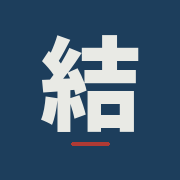
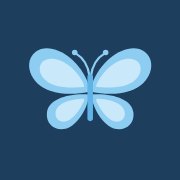
Rebrand to YUNABI with a light-blue butterfly; map opens near me; grey art placeholders
- New butterfly mark (assets/brand/yunabi-mark.svg) in the header and the
  app icons; name YUNABI in the title, header and manifest
- Entering the map from another screen always starts at near me (D14);
  a reload also starts there
- Panels, scenes and ending cards without artwork are plain grey boxes;
  the English scene notes stay in the data but are no longer shown (D15)
- CACHE yui-v6

Storage keys stay yui.v1.* so existing collections survive the rename.

Claude-Session: https://claude.ai/code/session_01QtqqbbrspAGQLbnxA1Q8rE

Changed region(s): [[0.1389, 0.1944, 0.8611, 0.75], [0.3889, 0.7778, 0.6111, 0.8333]]

diff --git a/index.html b/index.html
@@ -3,7 +3,7 @@
 <head>
 <meta charset="utf-8">
 <meta name="viewport" content="width=device-width, initial-scale=1, viewport-fit=cover">
-<title>YUI</title>
+<title>YUNABI</title>
 <meta name="description" content="Everyday Japanese comics and a conversation game, a map of everyday places, and the dorm calendar — for residents of GLOBAL COMMONS 結 -YUI-.">
 <link rel="manifest" href="./manifest.webmanifest">
 <meta name="theme-color" content="#1D3E5C">
@@ -11,7 +11,7 @@
 <meta name="mobile-web-app-capable" content="yes">
 <meta name="apple-mobile-web-app-capable" content="yes">
 <meta name="apple-mobile-web-app-status-bar-style" content="black-translucent">
-<meta name="apple-mobile-web-app-title" content="YUI">
+<meta name="apple-mobile-web-app-title" content="YUNABI">
 <link rel="apple-touch-icon" href="./icon-180.png">
 <link rel="icon" href="./icon-192.png">
 <style>
@@ -75,6 +75,7 @@ header{
   padding:calc(14px + env(safe-area-inset-top)) 18px 0;
 }
 .crest{display:flex;align-items:flex-end;gap:11px}
+.knot svg{display:block;width:46px;height:37px}
 .knot{
   font-size:30px;line-height:.9;font-weight:600;
   letter-spacing:-.02em;
@@ -221,7 +222,7 @@ main{flex:1;position:relative}
 .card p{font-size:11.5px;color:var(--sumi-faint);margin:6px 2px 0;line-height:1.5}
 .card.lock b{color:var(--line);text-align:center}
 .card.lock .cgart{background:var(--washi-deep);border-style:solid}
-.cgart{aspect-ratio:4/3;border:1px dashed var(--line);border-radius:7px;background:var(--washi);
+.cgart{aspect-ratio:4/3;border-radius:7px;background:#D5D7D2;
   display:flex;flex-direction:column;align-items:center;justify-content:center;
   gap:5px;padding:11px;text-align:center;overflow:hidden}
 .cgart img{width:100%;height:100%;object-fit:cover;border-radius:7px}
@@ -271,7 +272,7 @@ main{flex:1;position:relative}
 .cuts{padding:16px 18px 4px}
 .cut{margin:0 0 18px}
 .cut img{width:100%;display:block;border-radius:10px;border:1px solid var(--line)}
-.cutph{aspect-ratio:4/3;border:1px dashed var(--line);border-radius:10px;background:var(--card);
+.cutph{aspect-ratio:4/3;border-radius:10px;background:#D5D7D2;
   display:flex;flex-direction:column;align-items:center;justify-content:center;gap:7px;padding:18px;text-align:center}
 .cutph span{font-size:11px;font-weight:700;color:var(--asagi)}
 .cutph p{font-size:12.5px;color:var(--sumi-faint);line-height:1.5}
@@ -364,7 +365,21 @@ html[lang="ko"] body{word-break:keep-all;overflow-wrap:anywhere}
 <div id="app">
   <header>
     <div class="crest">
-      <div class="knot">結</div>
+      <div class="knot"><svg viewBox="52 84 408 330" aria-hidden="true">
+  <defs>
+    <g id="yn-half">
+      <path d="M262 236C292 150 384 96 432 132C474 164 452 236 386 258C340 273 296 268 262 262Z" fill="#8ECDF2"/>
+      <path d="M276 238C304 176 368 140 404 160C432 177 420 222 376 238C344 249 306 248 276 246Z" fill="#C9E9FB"/>
+      <path d="M262 270C330 266 392 286 396 330C400 376 352 398 314 370C288 351 270 318 262 286Z" fill="#8ECDF2"/>
+      <path d="M276 284C322 284 366 300 368 330C370 356 342 366 320 350C300 336 286 312 276 292Z" fill="#C9E9FB"/>
+      <path d="M258 212C262 178 280 150 304 136" fill="none" stroke="#8ECDF2" stroke-width="7" stroke-linecap="round"/>
+      <circle cx="306" cy="134" r="9" fill="#8ECDF2"/>
+    </g>
+  </defs>
+  <use href="#yn-half"/>
+  <use href="#yn-half" transform="translate(512 0) scale(-1 1)"/>
+  <rect x="247" y="204" width="18" height="152" rx="9" fill="#5FB3E6"/>
+</svg></div>
       <div class="crest-text">
         <b id="ttl">YUI</b>
         <span id="sub">GLOBAL COMMONS 結 -YUI-</span>
@@ -379,10 +394,9 @@ html[lang="ko"] body{word-break:keep-all;overflow-wrap:anywhere}
 
 <script>
 /* ============ i18n ============ */
-/* appName is a placeholder until the name is decided — change it here only. */
 const T = {
  ja:{
-   appName:"YUI",
+   appName:"YUNABI",
    appSub:"生活の日本語・マップ・カレンダー",
    tabs:["ホーム","日本語","マップ","カレンダー"],
    tabIcon:["⌂","あ","◉","▦"],
@@ -459,7 +473,7 @@ const T = {
    wdShort:["日","月","火","水","木","金","土"],
    back:"戻る"},
  en:{
-   appName:"YUI",
+   appName:"YUNABI",
    appSub:"Everyday Japanese · Map · Calendar",
    tabs:["Home","Japanese","Map","Calendar"],
    tabIcon:["⌂","あ","◉","▦"],
@@ -536,7 +550,7 @@ const T = {
    wdShort:["S","M","T","W","T","F","S"],
    back:"Back"},
  ko:{
-   appName:"YUI",
+   appName:"YUNABI",
    appSub:"생활 일본어 · 지도 · 캘린더",
    tabs:["홈","일본어","지도","캘린더"],
    tabIcon:["⌂","あ","◉","▦"],
@@ -1479,7 +1493,7 @@ function collection(){
     <div class="cgrid">${ENDINGS.map(e=>{
       if(!S.cg[e.id])return `<div class="card lock"><div class="cgart"></div><b>${t.locked}</b></div>`;
       return `<div class="card"><div class="cgart">${e.img?`<img src="${esc(e.img)}" alt="">`
-        :`<p>${esc(e.s)}</p><small>${t.artTodo}</small>`}</div>
+        :""}</div>
         <b>${esc(e.t[S.lang])}</b><q>${esc(e.jp)}</q>
         <p>${esc(e.n[S.lang])}</p></div>`;}).join("")}</div>`;
 }
@@ -1490,8 +1504,7 @@ function lesson(){
   if(l.vn)return vnView();
   const cuts=l.cuts.map((c,i)=>`<figure class="cut">
       ${c.img?`<img src="${esc(c.img)}" alt="">`
-            :`<div class="cutph"><span>${i+1}</span><p>${esc(c.s)}</p>
-               <small>${t.artTodo}</small></div>`}
+            :`<div class="cutph"><span>${i+1}</span></div>`}
       <figcaption>${esc(c.jp)}</figcaption>
     </figure>`).join("");
   const ex=l.ex.map(e=>`<div class="expr">
@@ -1521,7 +1534,7 @@ function vnView(){
     const card=ENDINGS.find(e=>e.route===v.route&&e.best===best);
     return bar+`<div class="vnend">
         <div class="cgart big">${card.img?`<img src="${esc(card.img)}" alt="">`
-          :`<p>${esc(card.s)}</p><small>${t.artTodo}</small>`}</div>
+          :""}</div>
         <h1>${esc(card.t[S.lang])}</h1>
         <q>${esc(card.jp)}</q>
         <p class="endnote">${esc(card.n[S.lang])}</p>
@@ -1544,7 +1557,7 @@ function vnView(){
   return bar+`<div class="vnwrap">
       <div class="vndots">${dots}</div>
       <div class="cgart">${sc.img?`<img src="${esc(sc.img)}" alt="">`
-        :`<p>${esc(sc.s)}</p><small>${t.artTodo}</small>`}</div>
+        :""}</div>
       <div class="vnline"><b>${esc(R.name[S.lang])}</b><p>${esc(sc.jp)}</p></div>
       ${body}
     </div>`;
@@ -1731,9 +1744,13 @@ function render(){
 }
 function snap(){return {v:S.view,lid:S.lid,eid:S.eid,eday:S.eday,prev:S.prevView,mode:S.mode,pref:S.pref};}
 function go(view,replace){
+  /* Coming to the map from another screen always starts at near me (D14). */
+  const toNear=view==="map"&&S.view!=="map"&&S.mode!=="near";
+  if(toNear){if(LMAP)MODEVIEW.japan={c:LMAP.getCenter(),z:LMAP.getZoom()};S.mode="near";S.pref=null;S.pl=null;S.cat="";}
   S.prevView=replace?S.prevView:S.view;S.view=view;S.menu=false;
   try{history[replace?"replaceState":"pushState"](snap(),"");}catch(e){}
   render();window.scrollTo(0,0);
+  if(toNear&&LMAP){const v=MODEVIEW.near;if(v)LMAP.setView(v.c,v.z,{animate:false});else syncMap(true);}
   if(view==="map")enterMap();
 }
 
@@ -1797,7 +1814,7 @@ S.lang=store.get("lang","en");if(!T[S.lang])S.lang="en";
 {const c=store.get("loc",null);S.locState=c==="use"?"idle":c==="skip"?"skip":"ask";}
 {const st=history.state;
   if(st&&VIEWS[st.v]){S.view=st.v;S.lid=st.lid;S.eid=st.eid;S.eday=st.eday;S.prevView=st.prev;
-    if(st.mode)S.mode=st.mode;S.pref=st.pref||null;}
+    if(st.v!=="map"&&st.mode)S.mode=st.mode;}
   else S.view=ROOTS.includes(q.get("v"))?q.get("v"):q.get("tab")==="1"?"cal":"home";}
 try{history.replaceState(snap(),"",location.pathname);}catch(e){}
 addEventListener("popstate",e=>{const st=e.state;if(!st||!VIEWS[st.v])return;

diff --git a/sw.js b/sw.js
@@ -1,5 +1,5 @@
 /* Bump CACHE on every deploy — it is what forces phones to pick up new code. */
-const CACHE = "yui-v5";
+const CACHE = "yui-v6";
 
 const SHELL = [
   "./",
